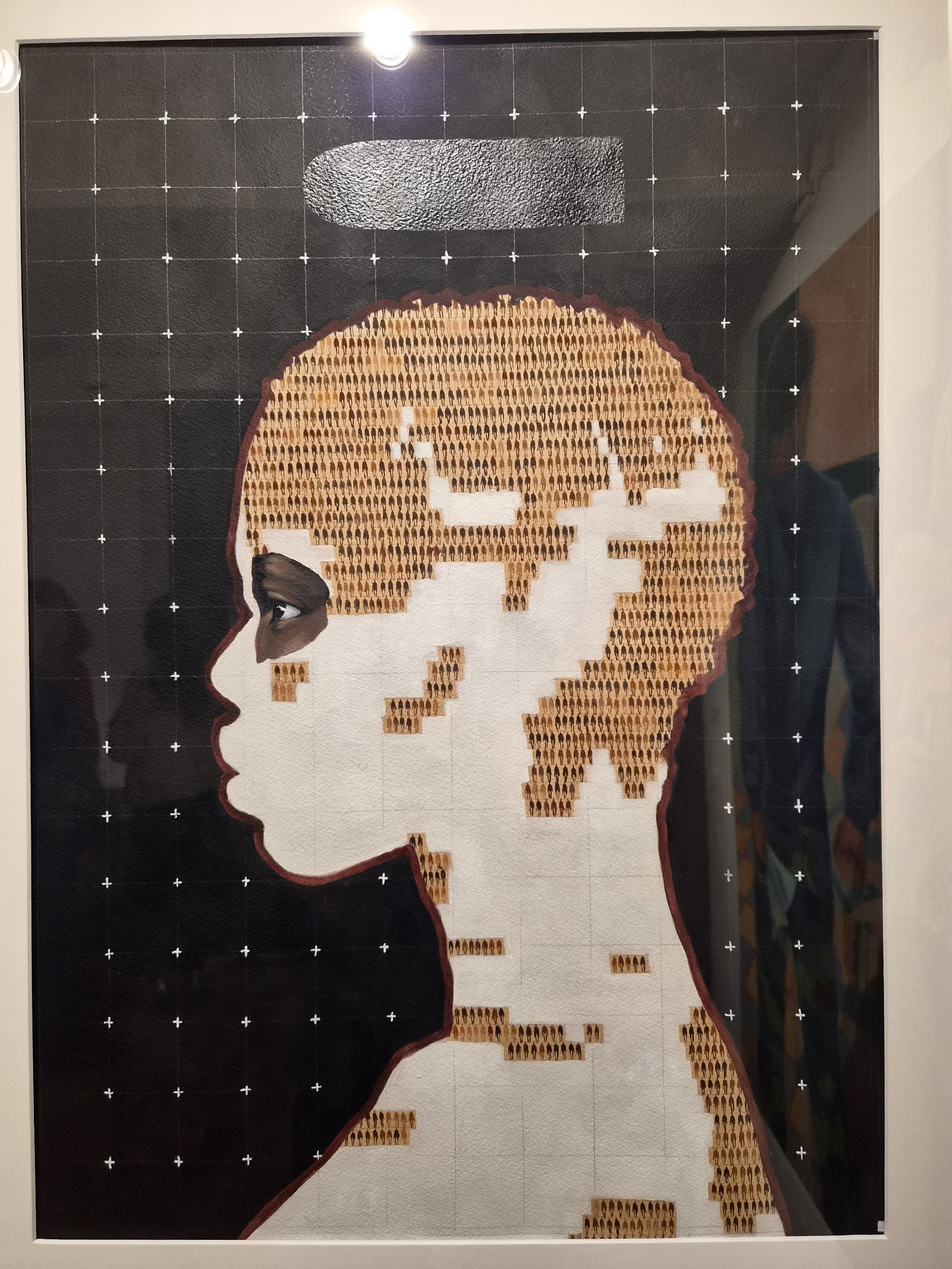
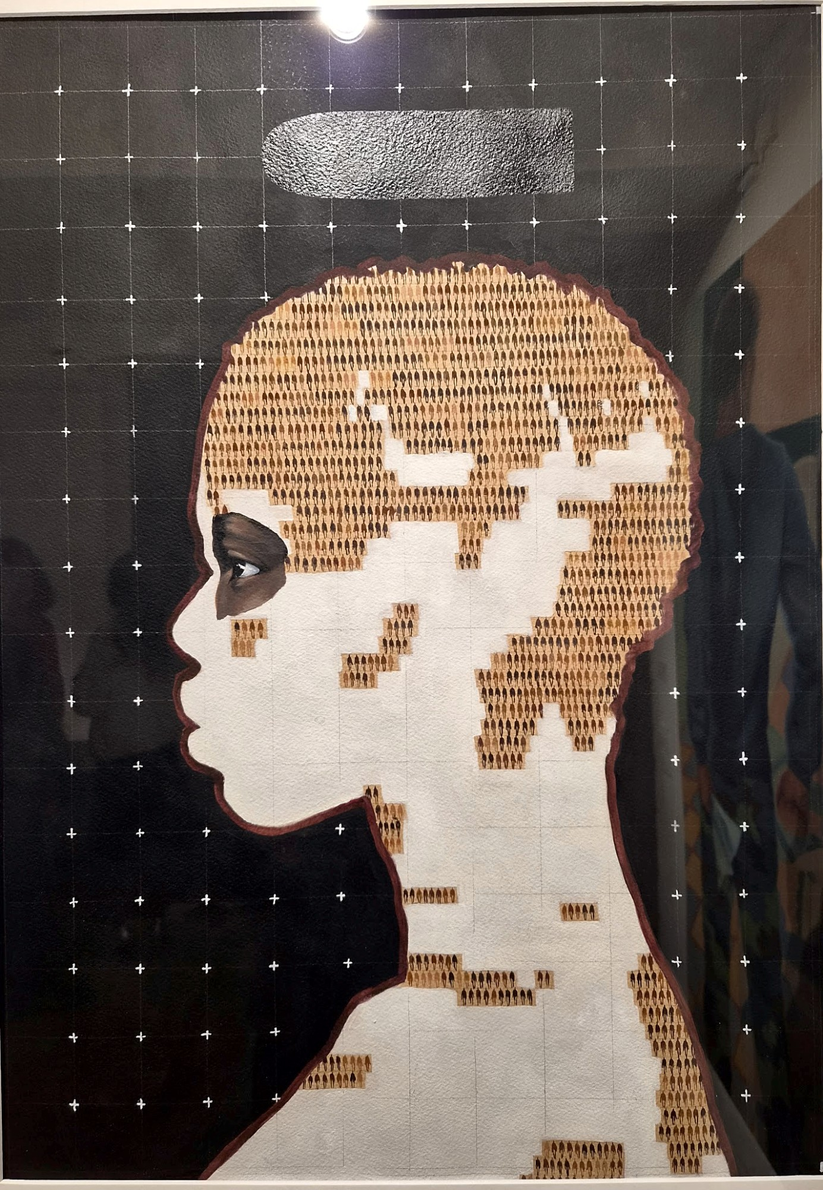
Photos des oeuvres: redressement, recadrage, correction fidele

diff --git a/scripts/enhance-photos.py b/scripts/enhance-photos.py
@@ -1,0 +1,102 @@
+"""Redresse, recadre et corrige (exposition, contraste, netteté) les photos d'œuvres.
+
+Correction photographique fidèle uniquement : aucune retouche créative.
+Originaux : scripts/photo-originals/ (ignoré par git, non déployé).
+Sorties   : public/images/artworks/ (JPEG q90, 2000 px max côté long).
+Usage     : python scripts/enhance-photos.py [--sheet chemin.jpg]
+Dépendances : opencv-python, numpy, pillow.
+"""
+import sys
+from pathlib import Path
+
+import cv2
+import numpy as np
+from PIL import Image
+
+ROOT = Path(__file__).resolve().parent.parent
+SRC = ROOT / "scripts" / "photo-originals"
+OUT = ROOT / "public" / "images" / "artworks"
+MAX_SIDE = 2000
+
+# Coins de l'œuvre (fractions de l'image) : haut-gauche, haut-droit, bas-droit, bas-gauche.
+# wb : balance des blancs gris-moyen légère (désactivée pour les teintes d'auteur, ex. tirages chauds).
+CORNERS = {
+    "celanie-1": ([(.035, .02), (.925, .02), (.925, .985), (.035, .985)], False),
+    "celanie-2": ([(.138, .14), (.878, .14), (.878, .935), (.138, .935)], False),
+    "kenof-1": ([(.02, .02), (.99, .02), (.99, .955), (.02, .955)], False),
+    "kenof-2": ([(.02, .03), (.99, .03), (.99, .955), (.02, .955)], False),
+    "kenof-3": ([(.02, .025), (.99, .025), (.99, .955), (.02, .955)], False),
+    "morere-1": ([(.05, .1), (.95, .1), (.95, .96), (.05, .96)], True),
+    "morere-2": ([(.03, .0), (.97, .0), (.97, .995), (.03, .995)], True),
+    "padua-1": ([(.025, .02), (.99, .015), (.985, .985), (.02, .98)], False),
+    "padua-2": ([(.03, .035), (.99, .015), (.98, .95), (.02, .95)], False),
+    "padua-3": ([(.02, .02), (.985, .025), (.985, .975), (.02, .975)], False),
+    "taylor-1": ([(.04, .025), (.975, .025), (.975, .975), (.04, .975)], False),
+    "taylor-2": ([(.02, .03), (.975, .03), (.975, .94), (.015, .945)], False),
+    "taylor-3": ([(.06, .025), (.94, .025), (.94, .95), (.05, .955)], False),
+    }
+
+def rectify(img, quad):
+    h, w = img.shape[:2]
+    pts = np.array([(x * w, y * h) for x, y in quad], dtype=np.float32)
+    tl, tr, br, bl = pts
+    out_w = int(round((np.linalg.norm(tr - tl) + np.linalg.norm(br - bl)) / 2))
+    out_h = int(round((np.linalg.norm(bl - tl) + np.linalg.norm(br - tr)) / 2))
+    dst = np.array([[0, 0], [out_w, 0], [out_w, out_h], [0, out_h]], dtype=np.float32)
+    m = cv2.getPerspectiveTransform(pts, dst)
+    return cv2.warpPerspective(img, m, (out_w, out_h), flags=cv2.INTER_CUBIC)
+
+
+def white_balance(img):
+    f = img.astype(np.float32)
+    means = f.reshape(-1, 3).mean(axis=0)
+    gain = np.clip(means.mean() / means, 0.92, 1.08)
+    return np.clip(f * gain, 0, 255).astype(np.uint8)
+
+
+def tone(img):
+    lab = cv2.cvtColor(img, cv2.COLOR_BGR2LAB)
+    l = lab[..., 0].astype(np.float32)
+    lo, hi = np.percentile(l, (0.5, 99.7))
+    l = np.clip((l - lo) / max(hi - lo, 1) * 255, 0, 255)
+    l = 255 * (l / 255) ** 0.96
+    lab[..., 0] = l.astype(np.uint8)
+    return cv2.cvtColor(lab, cv2.COLOR_LAB2BGR)
+
+
+def sharpen(img):
+    blur = cv2.GaussianBlur(img, (0, 0), 1.6)
+    return cv2.addWeighted(img, 1.35, blur, -0.35, 0)
+
+
+def process(name, quad, wb):
+    img = cv2.imread(str(SRC / f"{name}.jpg"))
+    img = rectify(img, quad)
+    if wb:
+        img = white_balance(img)
+    img = sharpen(tone(img))
+    h, w = img.shape[:2]
+    s = min(1.0, MAX_SIDE / max(h, w))
+    if s < 1:
+        img = cv2.resize(img, (round(w * s), round(h * s)), interpolation=cv2.INTER_AREA)
+    rgb = cv2.cvtColor(img, cv2.COLOR_BGR2RGB)
+    Image.fromarray(rgb).save(OUT / f"{name}.jpg", quality=90, optimize=True, progressive=True)
+
+
+def sheet(path):
+    cell = 400
+    names = list(CORNERS)
+    canvas = Image.new("RGB", (cell * 7, cell * 4), "#444")
+    for i, n in enumerate(names):
+        for row, folder in enumerate((SRC, OUT)):
+            im = Image.open(folder / f"{n}.jpg")
+            im.thumbnail((cell - 8, cell - 8))
+            canvas.paste(im, ((i % 7) * cell + 4, (i // 7) * cell * 2 + row * cell + 4))
+    canvas.save(path, quality=85)
+
+
+if __name__ == "__main__":
+    for n, (q, wb) in CORNERS.items():
+        process(n, q, wb)
+    if "--sheet" in sys.argv:
+        sheet(sys.argv[sys.argv.index("--sheet") + 1])

diff --git a/docs/HISTORY.md b/docs/HISTORY.md
@@ -58,3 +58,8 @@ Format : date — décision — raison. Ajouter les entrées en bas.
 - **Docs** : `.env.example` (noms seulement), `docs/DEPLOIEMENT.md` (guide débutant), README et skill `deploiement-vercel-neon` alignés.
 - **Tests** : `e2e/access.spec.ts` (projet « wall », second serveur port 3101, mot de passe jetable) ; serveur principal avec mur désactivé. 25 Playwright verts, lint et build OK.
 - **Limite** : pas de limitation de tentatives sur le mot de passe. **Non vérifié** : migration/seed contre un vrai Neon (pas de base disponible ici).
+
+## 2026-11 — Photos dignes d'une galerie
+- Script reproductible `scripts/enhance-photos.py` (OpenCV/Pillow) : redressement de perspective, recadrage au plus près, niveaux de luminance, netteté douce ; JPEG q90, 2000 px max. Aucune retouche créative ; balance des blancs seulement sur les céramiques (mur blanc), jamais sur les teintes d'auteur.
+- Originaux dans `scripts/photo-originals/` (gitignoré, hors déploiement).
+- Limites : Célanie 1 (vitrine, reflets sombres à droite) et Morère 1 (mur conservé, sculptures sans cadre) ne peuvent être nettoyés automatiquement.
